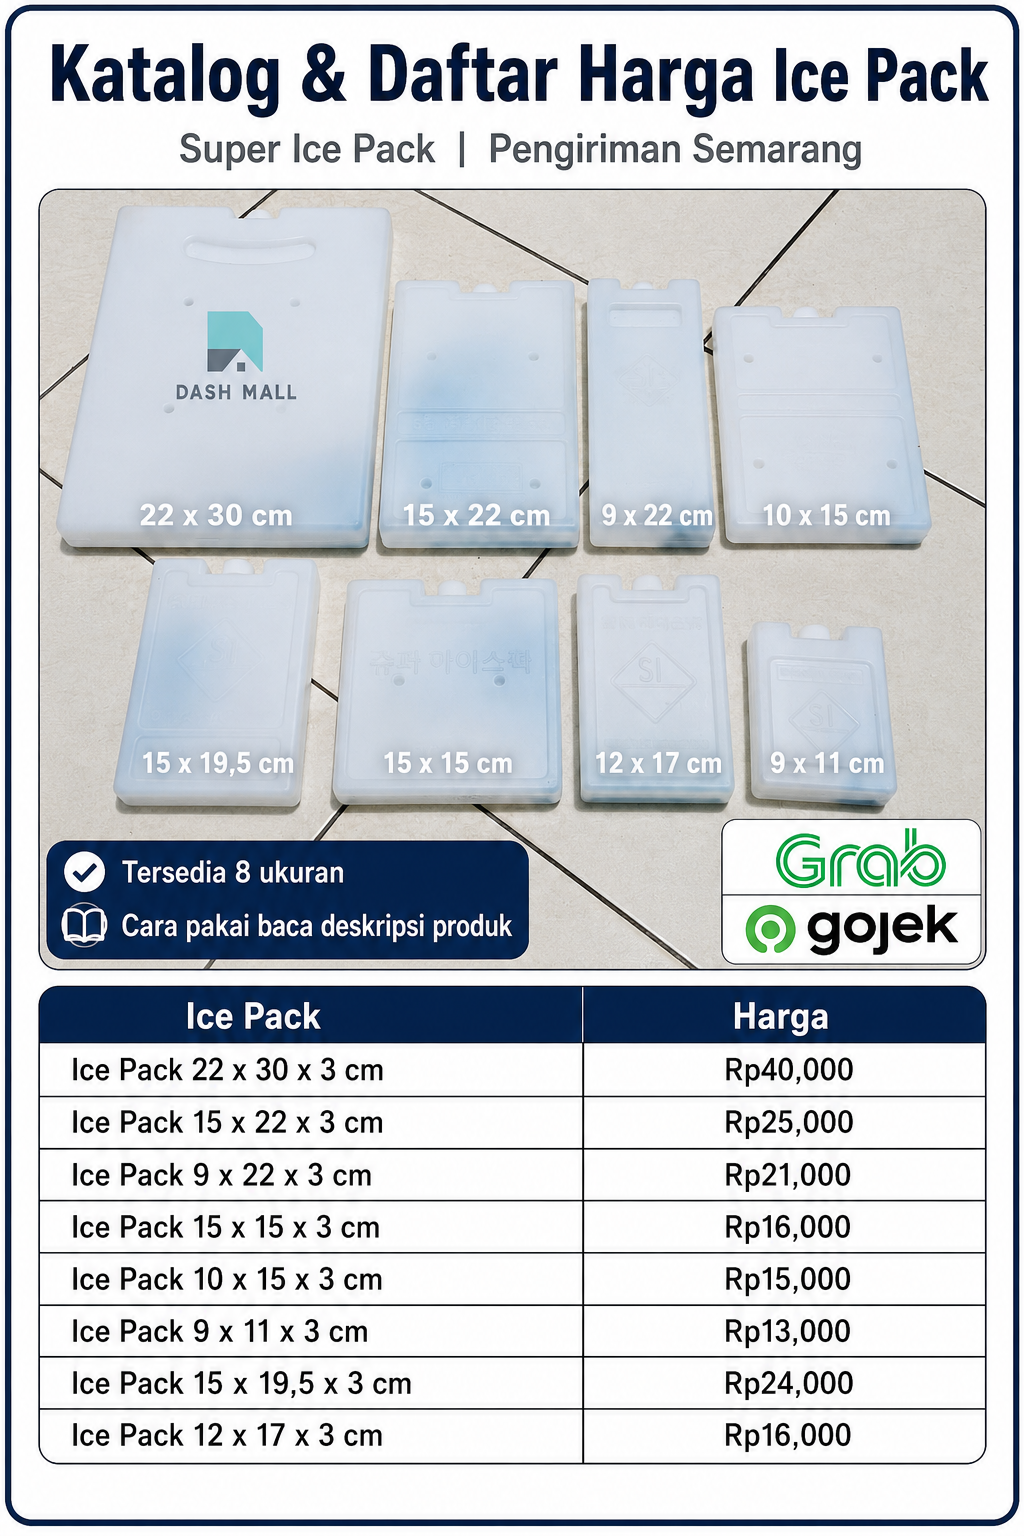
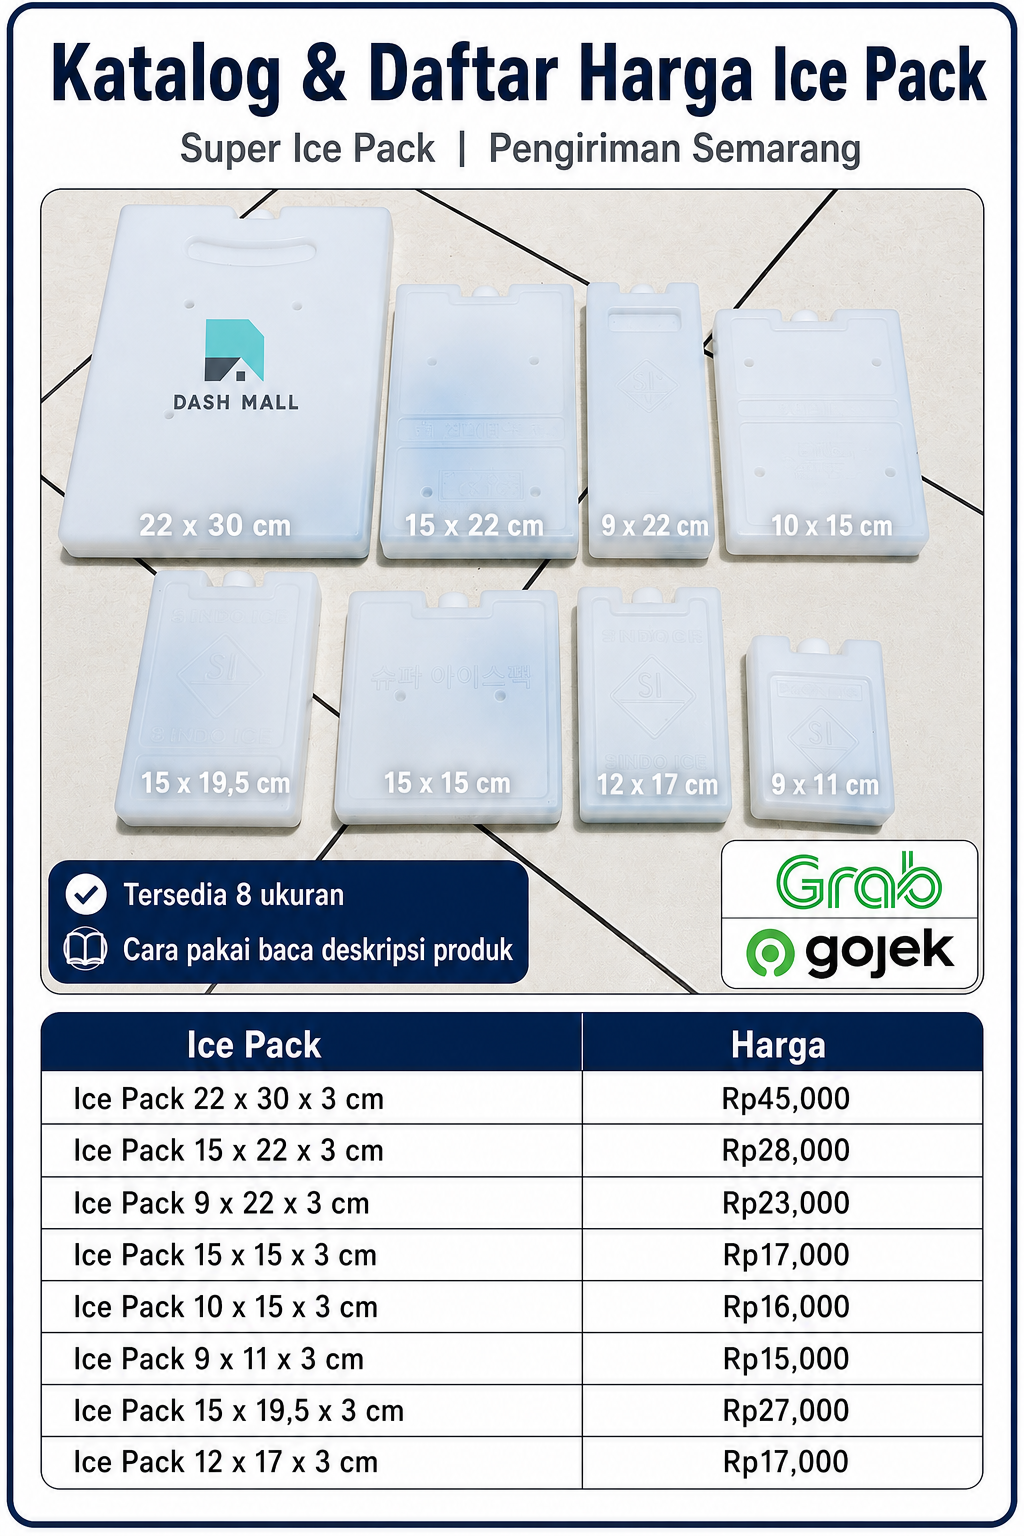
Enhance group message handling and recap date normalization

Changed region(s): [[0.0, 0.0, 1.0, 1.0], [0.1562, 0.1875, 0.2812, 0.2812], [0.375, 0.2188, 0.4062, 0.2812]]

diff --git a/src/index.js b/src/index.js
@@ -56,6 +56,7 @@ wppconnect
 function start(client) {
   const botStartedAtMs = Date.now();
   let loggedInWhatsAppIds;
+  const groupMessageBuffers = new Map();
 
   const getLoggedInWhatsAppIds = async () => {
     if (!loggedInWhatsAppIds) {
@@ -95,19 +96,32 @@ function start(client) {
 
     if (isGroupMessage(message)) {
       console.log(`Received group message from ${message.from}: "${message.body}".`);
+      rememberGroupMessage(groupMessageBuffers, message);
       try {
         const botIds = await getLoggedInWhatsAppIds();
         const recapPeriod = getRecapMentionPeriod(message, botIds);
         if (recapPeriod) {
           await client.sendText(message.from, 'Recaping...');
 
-          const messages = await client.getMessages(message.from, { count: 300 });
+          const historyMessages = await client
+            .getMessages(message.from, { count: 300 })
+            .catch((error) => {
+              console.error(`Failed to load group history ${message.from}, using live buffer:`, error);
+              return [];
+            });
+          const bufferedMessages = groupMessageBuffers.get(message.from) || [];
+          const messagesById = new Map();
+          [...historyMessages, ...bufferedMessages].forEach((groupMessage) => {
+            messagesById.set(getMessageIdentity(groupMessage), groupMessage);
+          });
+          const messages = [...messagesById.values()];
           const commandTimestamp = getMessageTimestampMs(message) || Date.now();
           const targetDate = getRecapDateLabel(recapPeriod, commandTimestamp, recapTimeZone);
           const recapMessages = messages
             .filter((groupMessage) => {
               const timestamp = getMessageTimestampMs(groupMessage);
-              return groupMessage.id !== message.id && (!timestamp || timestamp <= commandTimestamp);
+              return getMessageIdentity(groupMessage) !== getMessageIdentity(message) &&
+                (!timestamp || timestamp <= commandTimestamp);
             })
             .sort((left, right) =>
               (getMessageTimestampMs(left) || 0) - (getMessageTimestampMs(right) || 0)
@@ -394,6 +408,33 @@ function getMessageTimestampMs(message) {
   return numericTimestamp < 1000000000000
     ? numericTimestamp * 1000
     : numericTimestamp;
+}
+
+function getMessageIdentity(message) {
+  const id = message.id?._serialized || message.id?.id || message.id;
+  if (id && typeof id !== 'object') {
+    return String(id);
+  }
+
+  return [
+    getMessageTimestampMs(message) || 0,
+    message.author || message.from || '',
+    message.body || message.content || '',
+  ].join('|');
+}
+
+function rememberGroupMessage(groupMessageBuffers, message) {
+  const messages = groupMessageBuffers.get(message.from) || [];
+  const identity = getMessageIdentity(message);
+  const existingIndex = messages.findIndex((item) => getMessageIdentity(item) === identity);
+
+  if (existingIndex >= 0) {
+    messages[existingIndex] = message;
+  } else {
+    messages.push(message);
+  }
+
+  groupMessageBuffers.set(message.from, messages.slice(-300));
 }
 
 function getRecapDateLabel(period, referenceTimestampMs, timeZone) {

diff --git a/src/recapParser.js b/src/recapParser.js
@@ -108,6 +108,7 @@ function normalizeProductName(value) {
   return String(value || '')
     .toLowerCase()
     .replace(/lembaran\s+(\d+)\s*cm/g, 'lembaran $1cm')
+    .replace(/^pe\s+foam\s+tebal\s+/, 'pe foam ')
     .replace(/^box\s+lakban\s+(\d+)(?:\s+(.+))?$/, (_, size, variant) =>
       `box ${size}${variant ? ` ${variant}` : ''} lakban`
     )
@@ -157,9 +158,20 @@ function parseRecapMessage(body) {
 function normalizeRecapDate(value) {
   return String(value || '')
     .toLowerCase()
+    .replace(/\bjanuari\b|\bjanuary\b/g, 'jan')
+    .replace(/\bfebruari\b|\bfebruary\b/g, 'feb')
+    .replace(/\bmaret\b|\bmarch\b/g, 'mar')
+    .replace(/\bapril\b/g, 'apr')
     .replace(/\bmay\b/g, 'mei')
+    .replace(/\bjuni\b|\bjune\b/g, 'jun')
+    .replace(/\bjuli\b|\bjuly\b/g, 'jul')
+    .replace(/\bagustus\b|\baugust\b/g, 'agu')
     .replace(/\baug\b/g, 'agu')
+    .replace(/\bseptember\b/g, 'sep')
+    .replace(/\boktober\b|\boctober\b/g, 'okt')
     .replace(/\boct\b/g, 'okt')
+    .replace(/\bnovember\b/g, 'nov')
+    .replace(/\bdesember\b|\bdecember\b/g, 'des')
     .replace(/\bdec\b/g, 'des')
     .replace(/\s+/g, ' ')
     .trim();
@@ -167,7 +179,9 @@ function normalizeRecapDate(value) {
 
 function buildRecapFromMessages(messages, targetDate) {
   const parts = messages
-    .map((message) => parseRecapPart(message.body))
+    .map((message) => parseRecapPart(
+      message.body || message.content || message.caption || message.text
+    ))
     .map((part, index) => ({ part, index }))
     .filter(({ part }) => part);
   const datedParts = parts.filter(({ part }) => part.date);
